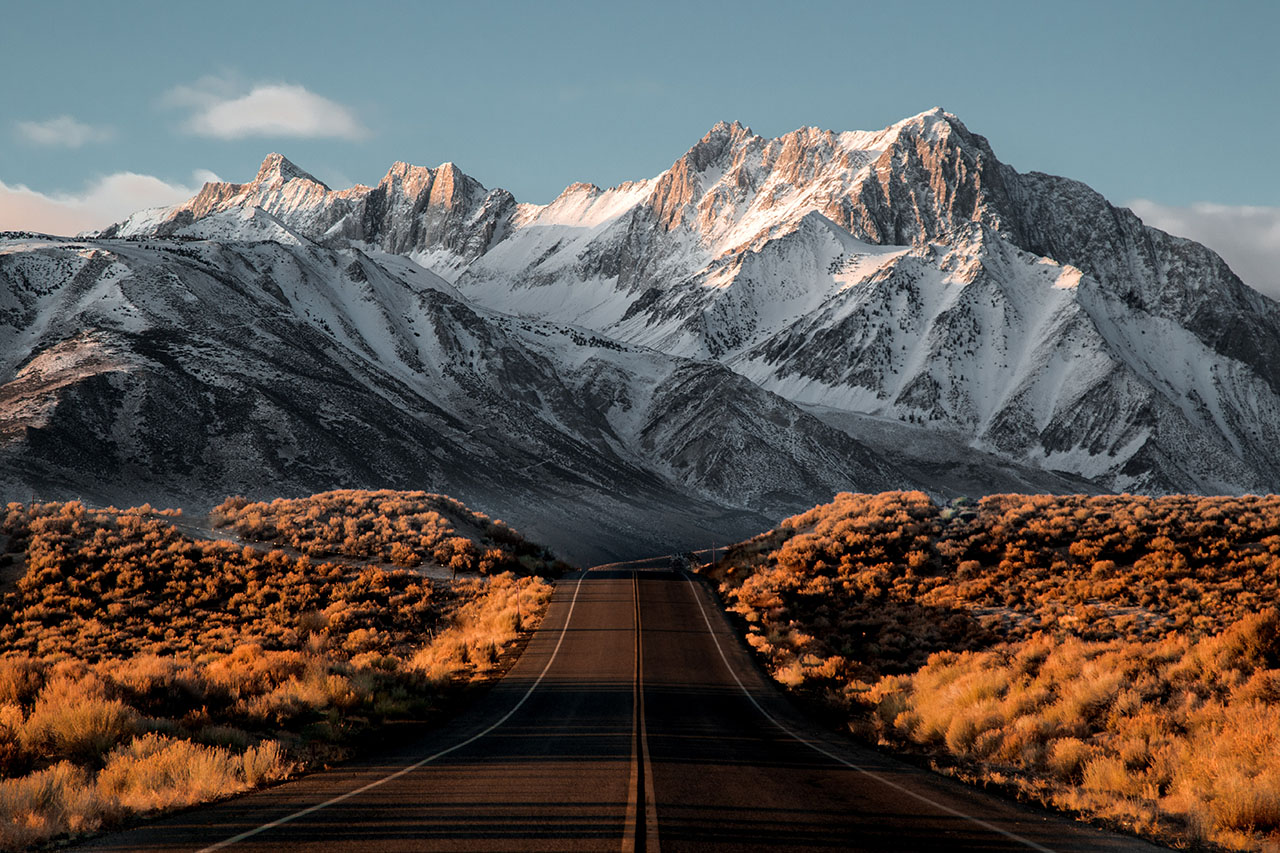
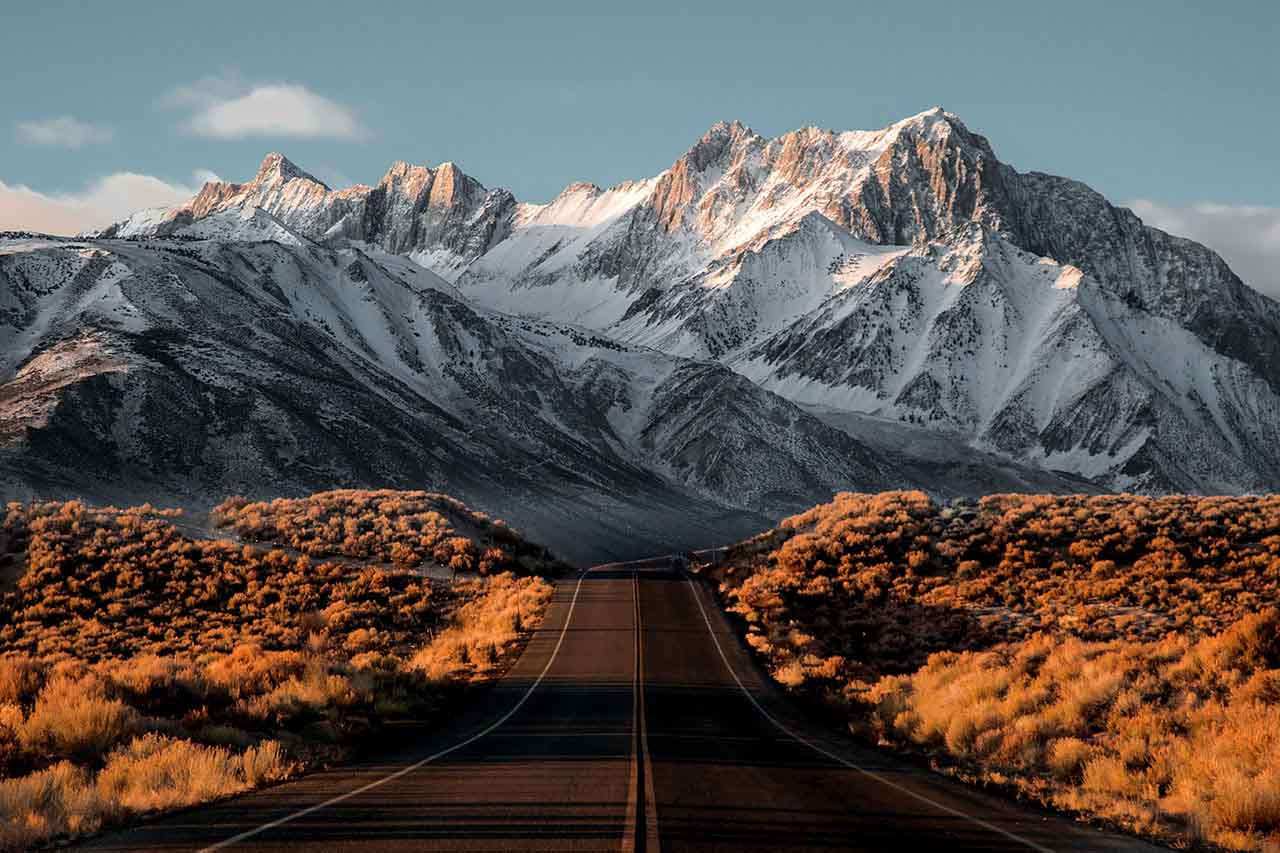
update about.html

diff --git a/about.html b/about.html
@@ -2,7 +2,7 @@
 layout: page
 title: "About"
 description: "Hey, this is BY."
-header-img: "img/post-bg-rwd.jpg"
+header-img: "img/mountain.jpg"
 ---
 
 <!-- Language Selector -->
